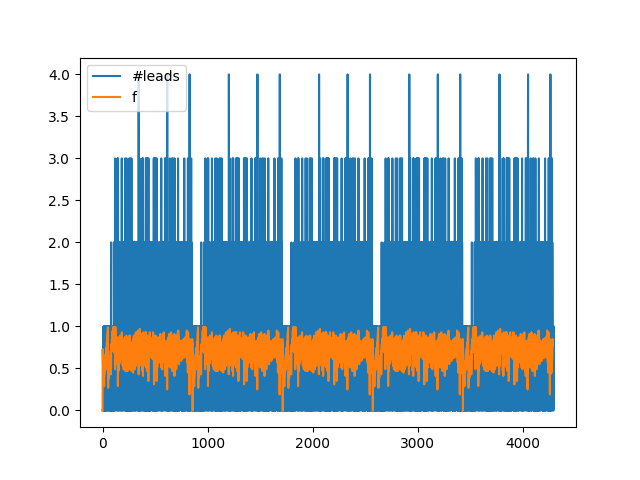
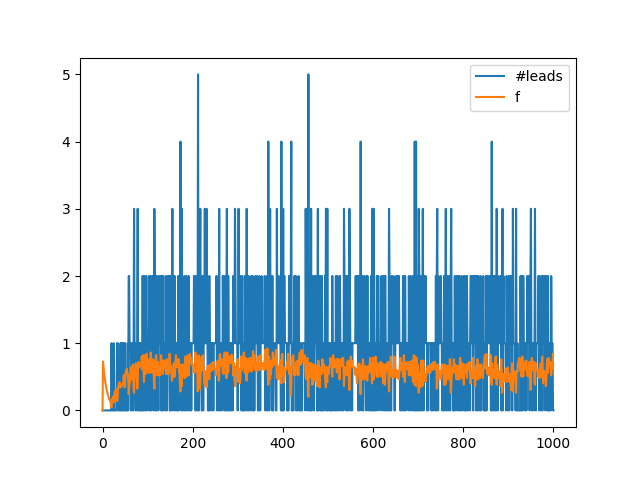
randomize #nodes

diff --git a/instance.py b/instance.py
@@ -8,7 +8,7 @@ RUNNING_TIME = int(input("running time:"))
 
 if __name__ == "__main__":
     darkies = []
-    darkies += [Darkie(CONTROLLER_TYPE_DISCRETE, 0, id=id+len(darkies), kp=0.18, ki=0.02, kd=-0.1) for id in range(5)] #random.randint(1,20)
+    darkies += [Darkie(CONTROLLER_TYPE_DISCRETE, 0, id=id+len(darkies), kp=0.18, ki=0.02, kd=-0.1) for id in range(random.randint(5,20))]
     airdrop = 0
     for darkie in darkies:
         airdrop+=darkie.stake
@@ -16,5 +16,5 @@ if __name__ == "__main__":
     dt = DarkfiTable(airdrop, RUNNING_TIME)
     for darkie in darkies:
         dt.add_darkie(darkie)
-    dt.background(rand_running_time=True)
+    dt.background(rand_running_time=False)
     dt.write()

diff --git a/pid.py b/pid.py
@@ -98,8 +98,6 @@ class PID:
         buf+=','
         for i in self.feedback_hist[1:]:
             buf+=str(i)+','
-        #if len(self.feedback_hist)>1:
-            #buf+=str(self.feedback_hist[-1])
         with open(lead_hist_file, "w+") as f:
             f.write(buf)
 
@@ -111,8 +109,6 @@ class PID:
         buf+=','
         for i in self.f_hist[1:]:
             buf+=str(i)+','
-        #if len(self.f_hist)>1:
-            #buf+=str(self.f_hist[-1])
         with open(f_hist_file, "w+") as f:
             f.write(buf)
 

diff --git a/lottery.py b/lottery.py
@@ -71,6 +71,8 @@ class DarkfiTable:
         count = 0
         # random running time
         RND_RUNNING_TIME = random.randint(1,self.running_time) if rand_running_time else self.running_time
+        if rand_running_time:
+            print("random running time: {}".format(RND_RUNNING_TIME))
         while count < RND_RUNNING_TIME:
             winners = 0
             for i, darkie in enumerate(self.darkies):

diff --git a/draw.py b/draw.py
@@ -2,8 +2,8 @@ import matplotlib.pyplot as plt
 import numpy as np
 import os
 
-os.system("cat f[0-9]* > f.hist")
-os.system("cat leads[0-9]* > leads.hist")
+os.system("cat f0* > f.hist")
+os.system("cat leads0* > leads.hist")
 
 LEAD_FILE = "leads.hist"
 F_FILE = "f.hist"
